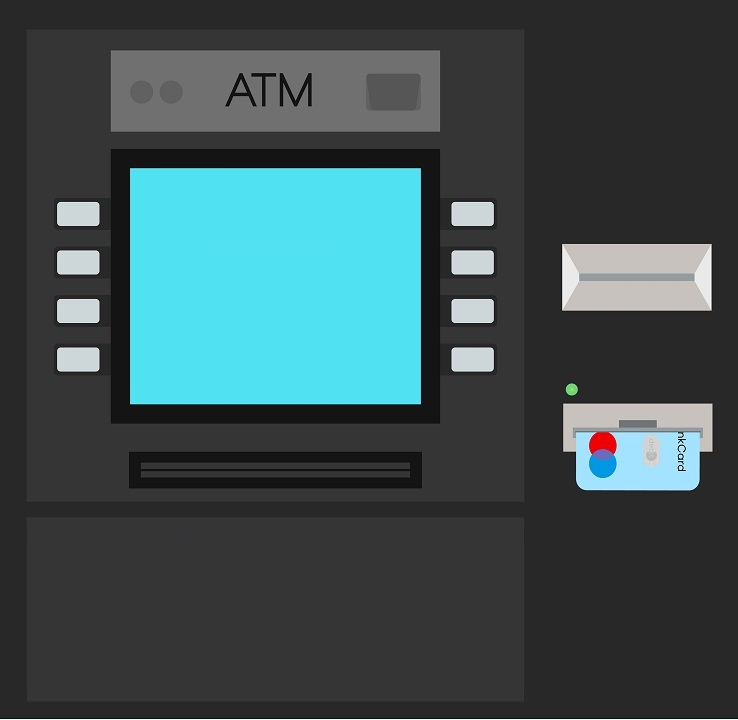
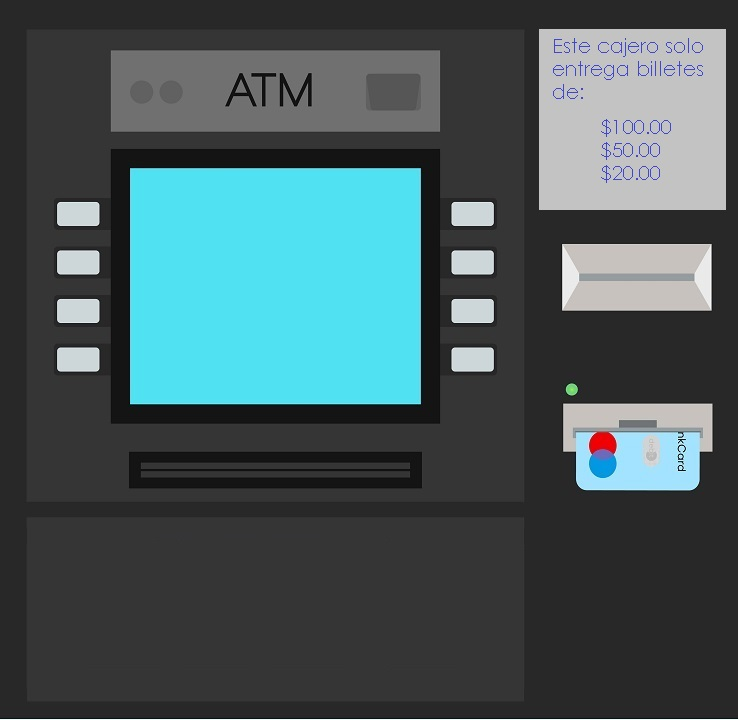
"Informacion tecnica" area and draw "billetes"

Changed region(s): [[0.7168, 0.0306, 0.9973, 0.3056]]

diff --git a/cajero.js b/cajero.js
@@ -1,4 +1,6 @@
-
+//------------The canvas is called-----------
+BI = document.getElementById("billetesImg");
+ctx = BI.getContext("2d");
 //------------Class Billete is created-----------
 
 class Billete {
@@ -13,21 +15,79 @@ class Billete {
 var caja = [];
 var entregado = [];
 var cantidadSub;
+var totalCaje1 = 0;
 
-caja.push(new Billete(50, 30));
-caja.push(new Billete(20, 20));
-caja.push(new Billete(10, 50));
+
+
+var billete20 = {
+    value : 20,
+    url: "20.jpg",
+    x : [],
+    y : [],
+    imagen : ""
+}
+
+var billete50 = {
+    value : 50,
+    url: "50.png",
+    x : [],
+    y : [],
+    imagen : ""
+}
+
+var billete100 = {
+    value : 100,
+    url: "100.png",
+    x : [],
+    y : [],
+    imagen : ""
+}
+
+
+billete20.imagen = new Image();
+billete20.imagen.src = billete20.url;
+
+billete50.imagen = new Image();
+billete50.imagen.src = billete50.url;
+
+billete100.imagen = new Image();
+billete100.imagen.src = billete100.url;
+
+caja.push(new Billete(100, 50));
+caja.push(new Billete(50, 50));
+caja.push(new Billete(20, 50));
 
 var dinero = document.getElementById("dinero").value;
 var div = 0;
 var papeles = 0;
-var totalCajero = 0;
-var multiple = 10;
 
+
+infoTec = document.getElementById("infoTec");
 var D = document.getElementById("divTextArea");
 var r = document.getElementById("resultado");
 var b = document.getElementById("aceptar");
 b.addEventListener("click", entregarDinero);
+
+//-----------Area of "Technical information" to show "total caja"--------
+
+function totalCaja(){
+    var totalCajero = 0;
+    infoTec.innerHTML = "<p>Información Técnica</p><br><p> El cajero cuenta con:</p><br>"
+    for(Rest of caja){
+        console.log(caja);
+        infoTec.innerHTML += Rest.cantidad + " billetes de $" + Rest.valor + "<br />";
+
+        totalCajero += (Rest.cantidad * Rest.valor);
+    }
+    totalCaje1 = totalCajero;
+    infoTec.innerHTML += "<br> Total: " + totalCaje1;
+
+}
+
+totalCaja();
+
+
+
 
 
 //-------------Code for keyboard-----------
@@ -37,6 +97,7 @@ $(document).ready(function () {
 
             $("#divTextArea").load("init.html");
             entregado.length = 0;
+            ctx.clearRect(0, 0, BI.width, BI.height);
 
         }
         else {
@@ -58,11 +119,12 @@ $(document).ready(function () {
 
 ///--------------Data processing...--------------
 function entregarDinero() {
+    
     dinero = document.getElementById("dinero").value;
     var caja2 = [];
 
 
-    if (dinero == 0){ //The input value is validated 
+     if (dinero == 0 || dinero > totalCaje1){ //The input value is validated 
 
         D.innerHTML = "<p class='message'>Intentelo de nuevo ingresando una cantidad :)</p>"
     }
@@ -108,20 +170,52 @@ function entregarDinero() {
         }
         else {
             D.innerHTML = "<p> Usted recibe:</p><br>"
+            
+
             for (var e of entregado) {
 
                 if (e.cantidad > 0) {
 
                     D.innerHTML += e.cantidad + " billetes de $" + e.valor + "<br />";
 
-                }
+                    
+                    if (e.valor == billete100.value) {
+                        for (var n = 0; n < e.cantidad; n++) {
+                            billete100.x[n] = 10 + (n * 5);
+                            billete100.y[n] = 100;
+                            ctx.drawImage(billete100.imagen, billete100.x[n], billete100.y[n]);
 
+                        }
+                    }
+
+                    if (e.valor == billete50.value) {
+                        for (var n = 0; n < e.cantidad; n++) {
+                            billete50.x[n] = 10 + (n * 5);
+                            billete50.y[n] = 300
+                            ctx.drawImage(billete50.imagen, billete50.x[n], billete50.y[n]);
+
+                        }
+                    }
+
+                    if (e.valor == billete20.value) {
+                        for (var n = 0; n < e.cantidad; n++) {
+                            billete20.x[n] = 10 + (n * 5);
+                            billete20.y[n] = 500;
+                            ctx.drawImage(billete20.imagen, billete20.x[n], billete20.y[n]);
+
+                        }
+                    }
+
+                }
+                //------
             }
+            ///Now "caja" takes the new values
+            caja = caja2;
         }
     }
-///Now "caja" takes the new values
-    caja = caja2;
-    console.log(caja);
+
+    ////To update de "Technical information"
+    totalCaja();
 
 }
 

diff --git a/main.css b/main.css
@@ -19,6 +19,24 @@
     grid-template-rows: 20% 39% 12.5% 28.5%;
 }
 
+.InfTec{
+    position:relative; z-index:3;
+    grid-column: 1/2;
+    grid-row: 2/4; 
+    text-align: center;
+    color: white;
+    font-family: 'Courier New', Courier, monospace;
+    flex-direction: column;
+    display: flex;
+    justify-content: center;
+    align-items: center;
+}
+.image{
+    position:relative; z-index:1;
+    grid-column: 2/6;
+    grid-row: 1/5; 
+}
+
 .message{
 
     color: red;
@@ -97,6 +115,12 @@
     justify-content: center;
     font-weight: bold;
     cursor: pointer;
+}
+
+.canvas{
+    position:relative; z-index:3;
+    grid-column: 6/7;
+    grid-row: 1/5;
 }
 
 .keyNumber:active{

diff --git a/atm.html b/atm.html
@@ -12,8 +12,8 @@
     <div class="area" >
        
         <div class="container">
-            <div></div>
-            <div> <p class="imagen">
+            <div class="InfTec" id="infoTec"></div>
+            <div class="image"> <p class="imagen">
                 <img src= "atm.jpg" />
 
             </p></div>
@@ -46,7 +46,7 @@
             <div class="resultado">
             <p id="resultado"></p>
             </div>
-
+            <div class="canvas"><canvas width="550" height="700" id="billetesImg"></canvas></div>
  
         </div>
         <ul class="circles">
@@ -63,8 +63,7 @@
     </ul>
     
 </div >
-    
-    
+
     <script src= "cajero.js"></script>
 </body>
 </html>
